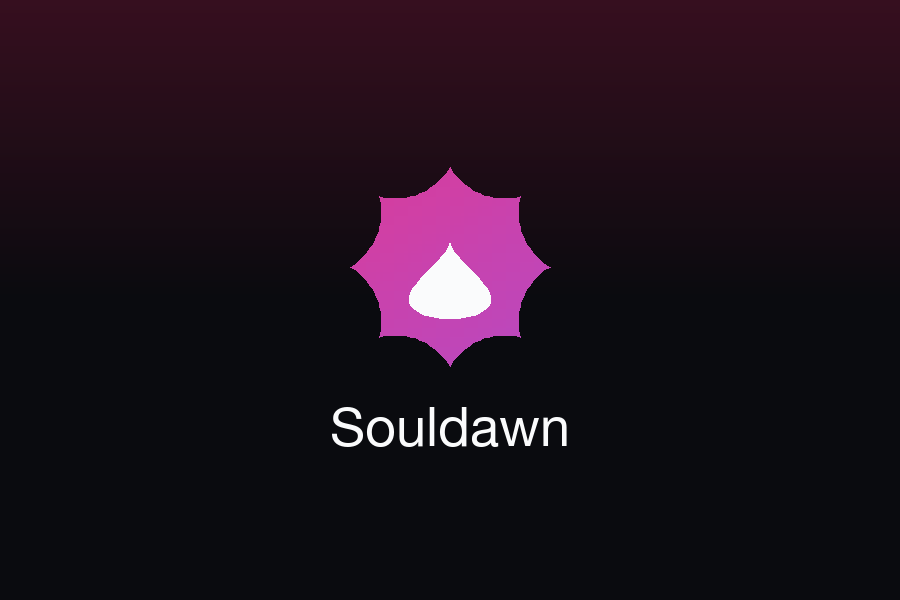
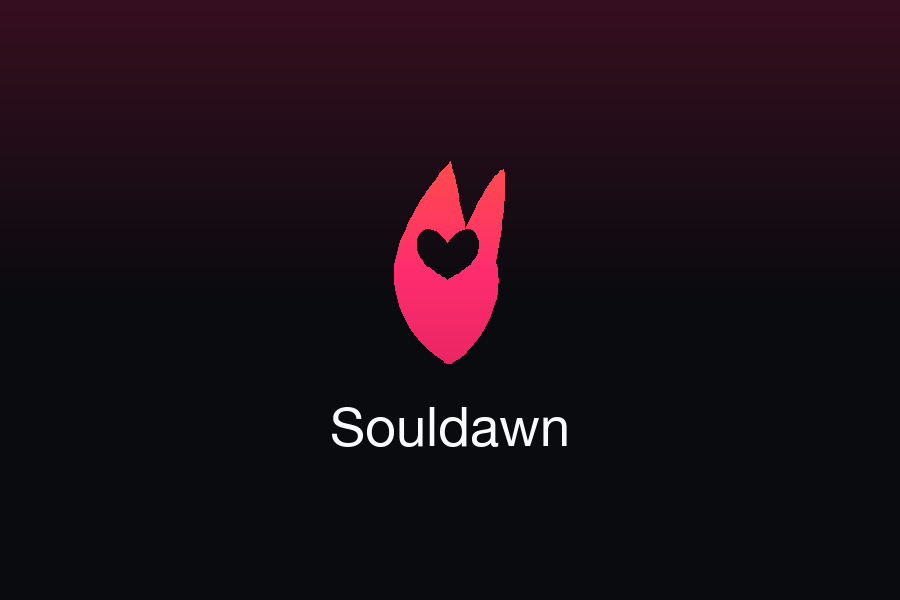
feat(brand): flame torch with nested heart mark
Replace spark+drop with Mimolet-style hierarchy: dawn flame outside,
heart cutout inside—no center glyph. Rebuild icons, splash, favicon, OG.

Changed region(s): [[0.3733, 0.27, 0.6222, 0.6]]

diff --git a/web/src/components/BrandMark.tsx b/web/src/components/BrandMark.tsx
@@ -1,22 +1,16 @@
 import { useId } from "react";
 
 /**
- * Знак марки: одна искра мэтча, внутри — капля (душа).
+ * Знак марки: факел рассвета с вложенным сердцем.
  *
- * У каждого человека свой цвет — аура (lib/aura.ts). Мэтч — встреча
- * двух аур: градиент малины и фиолета на ОДНОЙ форме. Не венн и не
- * два шара: доминирует мягкая 4-лучевая искра, внутри — одна капля.
- * Вложенность как у Мимолёта («звезда → сердце»), своя геометрия.
- *
+ * Иерархия как у Мимолёта (внешняя форма → сердце), своя геометрия:
+ * снаружи пламя, внутри сердце negative space. Без отдельного глифа.
  * Геометрия повторяет tools/brandmark.py. Плоский, статичный.
  */
 
-const ИСКРА =
-  "M50 8C53 34 66 47 92 50C66 53 53 66 50 92C47 66 34 53 8 50C34 47 47 34 50 8Z";
-
-/** Капля (soul): остриё сверху, округлое тело снизу — один контур. */
-const КАПЛЯ =
-  "M50 36C50 36 39.5 47 39.5 55.5C39.5 61.8 44.2 66.5 50 66.5C55.8 66.5 60.5 61.8 60.5 55.5C60.5 47 50 36 50 36Z";
+/** Пламя + сердце (evenodd). viewBox 100×100. */
+const ФАКЕЛ_СЕРДЦЕ =
+  "M 47.548,89.418 C 28.618,76.798 22.759,56.967 29.520,38.939 C 34.928,25.418 43.041,13.700 50.252,6.038 C 52.956,17.306 54.759,27.221 56.562,34.432 C 61.069,24.066 66.477,12.799 72.336,9.193 C 73.688,21.813 70.984,36.235 69.181,47.953 C 72.336,61.474 66.477,74.995 57.463,84.911 C 52.055,90.319 49.351,91.221 47.548,89.418 Z M 49.116,40.316 C 42.505,29.860 35.294,34.668 36.496,41.879 C 36.496,47.888 43.707,52.095 49.116,55.099 C 54.524,52.095 61.735,47.888 61.735,41.879 C 62.937,34.668 55.726,29.860 49.116,40.316 Z";
 
 export default function BrandMark({
   size = 64,
@@ -29,7 +23,7 @@ export default function BrandMark({
   className?: string;
 }) {
   const uid = useId().replace(/:/g, "");
-  const grad = `bm-spark-${uid}`;
+  const grad = `bm-dawn-${uid}`;
 
   return (
     <svg
@@ -41,13 +35,13 @@ export default function BrandMark({
       className={className}
     >
       <defs>
-        <linearGradient id={grad} x1="18" y1="18" x2="82" y2="82" gradientUnits="userSpaceOnUse">
-          <stop offset="0%" stopColor="var(--color-accent)" />
-          <stop offset="100%" stopColor="var(--color-mark-b)" />
+        <linearGradient id={grad} x1="28" y1="8" x2="58" y2="90" gradientUnits="userSpaceOnUse">
+          <stop offset="0%" stopColor="#ff7a1a" />
+          <stop offset="45%" stopColor="var(--color-accent)" />
+          <stop offset="100%" stopColor="#b81648" />
         </linearGradient>
       </defs>
-      <path d={ИСКРА} fill={`url(#${grad})`} />
-      <path d={КАПЛЯ} fill="#fafbfc" />
+      <path d={ФАКЕЛ_СЕРДЦЕ} fillRule="evenodd" fill={`url(#${grad})`} />
     </svg>
   );
 }

diff --git a/tools/brandmark.py b/tools/brandmark.py
@@ -1,41 +1,56 @@
-"""Знак марки: одна искра мэтча, внутри — капля (душа).
+"""Знак марки: факел рассвета с вложенным сердцем (иерархия как у Мимолёта).
 
-У каждого человека свой цвет — аура (web/src/lib/aura.ts). Мэтч —
-встреча двух аур: это градиент малины и фиолета на ОДНОЙ форме.
-Знак не склеивает круги и венны: доминирует мягкая 4-лучевая искра
-(вспышка мэтча), внутри — одна капля (soul). Как у Мимолёта
-вложенность «звезда → сердце», только своя геометрия.
-
-Плоский, статичный. Лёгкий градиент малина → фиолет — заливка формы,
-не объём. Читается в 16px (силуэт искры + светлая капля) и в 1024px.
+Снаружи — силуэт пламени/факела (r3-06), градиент оранж → малина.
+Внутри — сердце negative space, оптически по центру пламени.
+Без отдельного глифа (+, искра, черта): гармония за счёт вложенной формы.
 
 Геометрия одна на все носители: iOS-иконка, сплэш, favicon, баннеры
 (make_icons.py, make_banners.py) импортируют её отсюда; SVG на
 лендинге и React (web/src/components/BrandMark.tsx) повторяют те же
 пропорции. Константы ниже — источник правды.
 
-Пропорции от радиуса описанной окружности R (половина «размаха» искры):
-    вершины искры по осям на расстоянии R от центра
-    капля: характерный размер ≈ 0.28 R
+Пропорции в viewBox 100×100 (центр знака ≈ 50,50):
+    внешнее пламя по высоте ≈ 83.4
+    сердце — continuous tip-down, evenodd-вырез
 """
 
 from __future__ import annotations
 
-import math
+import re
 from PIL import Image, ImageDraw
 
-# Палитра дизайн-системы (web/src/styles/globals.css)
-МАЛИНОВЫЙ = (255, 45, 111)   # --color-accent #ff2d6f — первая аура
-ФИОЛЕТОВЫЙ = (139, 92, 246)  # --color-mark-b #8b5cf6 — вторая аура
-СВЕТ = (250, 251, 252)       # --color-text #fafbfc — вписанная капля
+# Палитра рассвета (r3-06 dawn)
+ОРАНЖ = (255, 122, 26)         # #ff7a1a — верх
+МАЛИНОВЫЙ = (255, 45, 111)     # #ff2d6f — середина / --color-accent
+МАЛИНА_ТЁМНАЯ = (184, 22, 72)  # #b81648 — низ
 
 # Приглушённый вариант — для «серых» носителей (баннер «Дальше»)
 СЕРЫЙ_А = (99, 105, 115)
 СЕРЫЙ_Б = (62, 67, 76)
 
-#: Искра вписана в квадрат 2R × 2R.
+#: Пламя вписано в квадрат примерно 2R × 2R по высоте.
 ШИРИНА = 2.0
 ВЫСОТА = 2.0
+
+# viewBox 100×100 — те же контуры, что BrandMark.tsx / landing/icon.svg
+_OUTER_100 = (
+    "M 47.548,89.418 C 28.618,76.798 22.759,56.967 29.520,38.939 "
+    "C 34.928,25.418 43.041,13.700 50.252,6.038 "
+    "C 52.956,17.306 54.759,27.221 56.562,34.432 "
+    "C 61.069,24.066 66.477,12.799 72.336,9.193 "
+    "C 73.688,21.813 70.984,36.235 69.181,47.953 "
+    "C 72.336,61.474 66.477,74.995 57.463,84.911 "
+    "C 52.055,90.319 49.351,91.221 47.548,89.418 Z"
+)
+_HEART_100 = (
+    "M 49.116,40.316 C 42.505,29.860 35.294,34.668 36.496,41.879 "
+    "C 36.496,47.888 43.707,52.095 49.116,55.099 "
+    "C 54.524,52.095 61.735,47.888 61.735,41.879 "
+    "C 62.937,34.668 55.726,29.860 49.116,40.316 Z"
+)
+
+# Половина высоты внешнего пламени в unit-space (для масштаба r).
+_UNIT_HALF = 41.7
 
 
 def _lerp(a: float, b: float, t: float) -> float:
@@ -50,57 +65,84 @@ def _mix(c1: tuple[int, int, int], c2: tuple[int, int, int], t: float) -> tuple[
     )
 
 
-def _точка_искры(cx: float, cy: float, r: float, угол: float) -> tuple[float, float]:
-    """Полярная кривая мягкой 4-лучевой искры.
-
-    r(θ) = R · ( |cos 2θ|^n + |sin 2θ|^n )^(-1/(2n)), n≈0.85 —
-    лучи без «ножевой» звезды, силуэт ближе к вспышке мэтча.
-    """
-    n = 0.85
-    c = abs(math.cos(2 * угол)) ** n
-    s = abs(math.sin(2 * угол)) ** n
-    радиус = r / max(1e-6, (c + s) ** (1 / (2 * n)))
-    return cx + радиус * math.cos(угол), cy + радиус * math.sin(угол)
-
-
-def _полигон_искры(cx: float, cy: float, r: float, шагов: int = 160) -> list[tuple[float, float]]:
-    return [
-        _точка_искры(cx, cy, r, (i / шагов) * math.tau - math.pi / 2)
-        for i in range(шагов)
-    ]
+def _bezier(
+    p0: tuple[float, float],
+    p1: tuple[float, float],
+    p2: tuple[float, float],
+    p3: tuple[float, float],
+    steps: int = 14,
+) -> list[tuple[float, float]]:
+    pts: list[tuple[float, float]] = []
+    for i in range(steps + 1):
+        t = i / steps
+        u = 1.0 - t
+        x = u**3 * p0[0] + 3 * u**2 * t * p1[0] + 3 * u * t**2 * p2[0] + t**3 * p3[0]
+        y = u**3 * p0[1] + 3 * u**2 * t * p1[1] + 3 * u * t**2 * p2[1] + t**3 * p3[1]
+        pts.append((x, y))
+    return pts
 
 
-def _полигон_капли(cx: float, cy: float, r: float, шагов: int = 72) -> list[tuple[float, float]]:
-    """Одна капля (soul): единый контур, остриё сверху.
+def _полигон_из_path(d: str) -> list[tuple[float, float]]:
+    """Растрирует SVG path (M/C/Z, абсолютные) в полигон unit-space."""
+    token = re.compile(r"([MCZ])|([-+]?(?:\d+\.?\d*|\.\d+))")
+    flat: list[str | float] = []
+    for cmd, num in token.findall(d.replace(",", " ")):
+        flat.append(cmd if cmd else float(num))
+    pts: list[tuple[float, float]] = []
+    i = 0
+    cur = (0.0, 0.0)
+    while i < len(flat):
+        c = flat[i]
+        if c == "M":
+            cur = (float(flat[i + 1]), float(flat[i + 2]))
+            pts.append(cur)
+            i += 3
+        elif c == "C":
+            p1 = (float(flat[i + 1]), float(flat[i + 2]))
+            p2 = (float(flat[i + 3]), float(flat[i + 4]))
+            p3 = (float(flat[i + 5]), float(flat[i + 6]))
+            seg = _bezier(cur, p1, p2, p3, steps=16)
+            pts.extend(seg[1:])
+            cur = p3
+            i += 7
+        elif c == "Z":
+            i += 1
+        else:
+            raise ValueError(f"unsupported path token: {c!r}")
+    return pts
 
-    Параметризация: x = a(1−sin t)cos t, y = a(1−sin t); остриё при t=π/2.
-    """
-    a = r * 0.28
-    точки: list[tuple[float, float]] = []
-    for i in range(шагов):
-        t = (i / шагов) * math.tau
-        s = 1.0 - math.sin(t)
-        x = a * 1.12 * s * math.cos(t)
-        y = a * 1.35 * s
-        # остриё (y≈0) выше центра; тело ниже
-        точки.append((cx + x, cy + y - a * 0.85))
-    return точки
+
+def _масштаб(pts: list[tuple[float, float]], cx: float, cy: float, r: float) -> list[tuple[float, float]]:
+    s = r / _UNIT_HALF
+    return [(cx + (x - 50.0) * s, cy + (y - 50.0) * s) for x, y in pts]
 
 
-def _градиент_диагональ(
+_OUTER_POLY = _полигон_из_path(_OUTER_100)
+_HEART_POLY = _полигон_из_path(_HEART_100)
+
+
+def _градиент_вертикаль(
     size: tuple[int, int],
-    цвет_а: tuple[int, int, int],
-    цвет_б: tuple[int, int, int],
+    верх: tuple[int, int, int],
+    низ: tuple[int, int, int],
+    середина: tuple[int, int, int] | None = None,
 ) -> Image.Image:
-    """Быстрый диагональный градиент через маленький холст."""
+    """Вертикальный градиент рассвета через маленький холст."""
     w, h = size
     мелкий = 64
     g = Image.new("RGB", (мелкий, мелкий))
     px = g.load()
-    den = 2 * (мелкий - 1)
+    den = мелкий - 1
     for y in range(мелкий):
+        t = y / den
+        if середина is None:
+            c = _mix(верх, низ, t)
+        elif t < 0.45:
+            c = _mix(верх, середина, t / 0.45)
+        else:
+            c = _mix(середина, низ, (t - 0.45) / 0.55)
         for x in range(мелкий):
-            px[x, y] = _mix(цвет_а, цвет_б, (x + y) / den)
+            px[x, y] = c
     return g.resize((w, h), Image.BILINEAR)
 
 
@@ -111,25 +153,26 @@ def нарисовать_знак(
     r: float,
     приглушить: bool = False,
 ) -> None:
-    """Рисует знак на изображении. (cx, cy) — центр, r — радиус описанной окружности."""
+    """Рисует знак на изображении. (cx, cy) — центр, r — половина высоты пламени."""
     if r < 1:
         return
 
-    а, б = (СЕРЫЙ_А, СЕРЫЙ_Б) if приглушить else (МАЛИНОВЫЙ, ФИОЛЕТОВЫЙ)
-    свет = СВЕТ if not приглушить else _mix(СЕРЫЙ_А, (210, 212, 216), 0.65)
+    if приглушить:
+        верх, середина, низ = СЕРЫЙ_А, _mix(СЕРЫЙ_А, СЕРЫЙ_Б, 0.45), СЕРЫЙ_Б
+    else:
+        верх, середина, низ = ОРАНЖ, МАЛИНОВЫЙ, МАЛИНА_ТЁМНАЯ
+
+    outer = _масштаб(_OUTER_POLY, cx, cy, r)
+    heart = _масштаб(_HEART_POLY, cx, cy, r)
 
     маска = Image.new("L", img.size, 0)
-    ImageDraw.Draw(маска).polygon(_полигон_искры(cx, cy, r), fill=255)
+    draw_m = ImageDraw.Draw(маска)
+    draw_m.polygon(outer, fill=255)
+    draw_m.polygon(heart, fill=0)
 
-    градиент = _градиент_диагональ(img.size, а, б).convert("RGBA")
+    градиент = _градиент_вертикаль(img.size, верх, низ, середина).convert("RGBA")
     градиент.putalpha(маска)
 
-    слой = Image.new("RGBA", img.size, (0, 0, 0, 0))
-    слой.alpha_composite(градиент)
-
-    draw = ImageDraw.Draw(слой)
-    draw.polygon(_полигон_капли(cx, cy, r), fill=(*свет, 255))
-
     база = img.convert("RGBA")
-    база.alpha_composite(слой)
+    база.alpha_composite(градиент)
     img.paste(база.convert(img.mode))

diff --git a/tools/make_icons.py b/tools/make_icons.py
@@ -2,10 +2,10 @@
 """
 Генератор иконки, splash-экрана и favicon.
 
-Знак марки — одна искра мэтча с каплей внутри (см. tools/brandmark.py).
+Знак марки — факел рассвета с вложенным сердцем (см. tools/brandmark.py).
 Иконка — тёмный квадрат в цвете фона приложения со знаком по центру:
-на домашнем экране силуэт искры с градиентом аур читается с расстояния
-и не похож ни на пламя, ни на звезду+сердце соседей по нише.
+на домашнем экране пламя+сердце с градиентом рассвета читается с
+расстояния; без отдельного глифа в центре.
 
 Цвета берутся из дизайн-системы (web/src/styles/globals.css), чтобы
 иконка, splash и интерфейс выглядели одним продуктом.
@@ -90,7 +90,7 @@ def main() -> None:
     print(f"✓ {WEB_PUBLIC / 'apple-touch-icon.png'}")
 
     # Favicon: на 16px знак рисуем заново крупнее, а не сжимаем иконку —
-    # у уменьшенной копии капля внутри искры замыливается
+    # у уменьшенной копии сердце внутри пламени замыливается
     fav_sizes = [(16, 16), (32, 32), (48, 48), (64, 64)]
     fav = Image.new("RGB", (64, 64), BG)
     нарисовать_знак(fav, 32, 32, 64 * 0.40)

diff --git a/tools/make_banners.py b/tools/make_banners.py
@@ -10,9 +10,9 @@
 Файлы кладём в `web/public/banners`, бот берёт их по SITE_URL — то есть со
 своего домена.
 
-Знак — искра мэтча с каплей из tools/brandmark.py. Геометрия
-импортируется, а не копируется, поэтому иконка на телефоне и баннер
-в боте — буквально одна форма.
+Знак — факел рассвета с сердцем из tools/brandmark.py.
+Геометрия импортируется, а не копируется, поэтому иконка на телефоне
+и баннер в боте — буквально одна форма.
 
 Запуск: python3 tools/make_banners.py
 """
